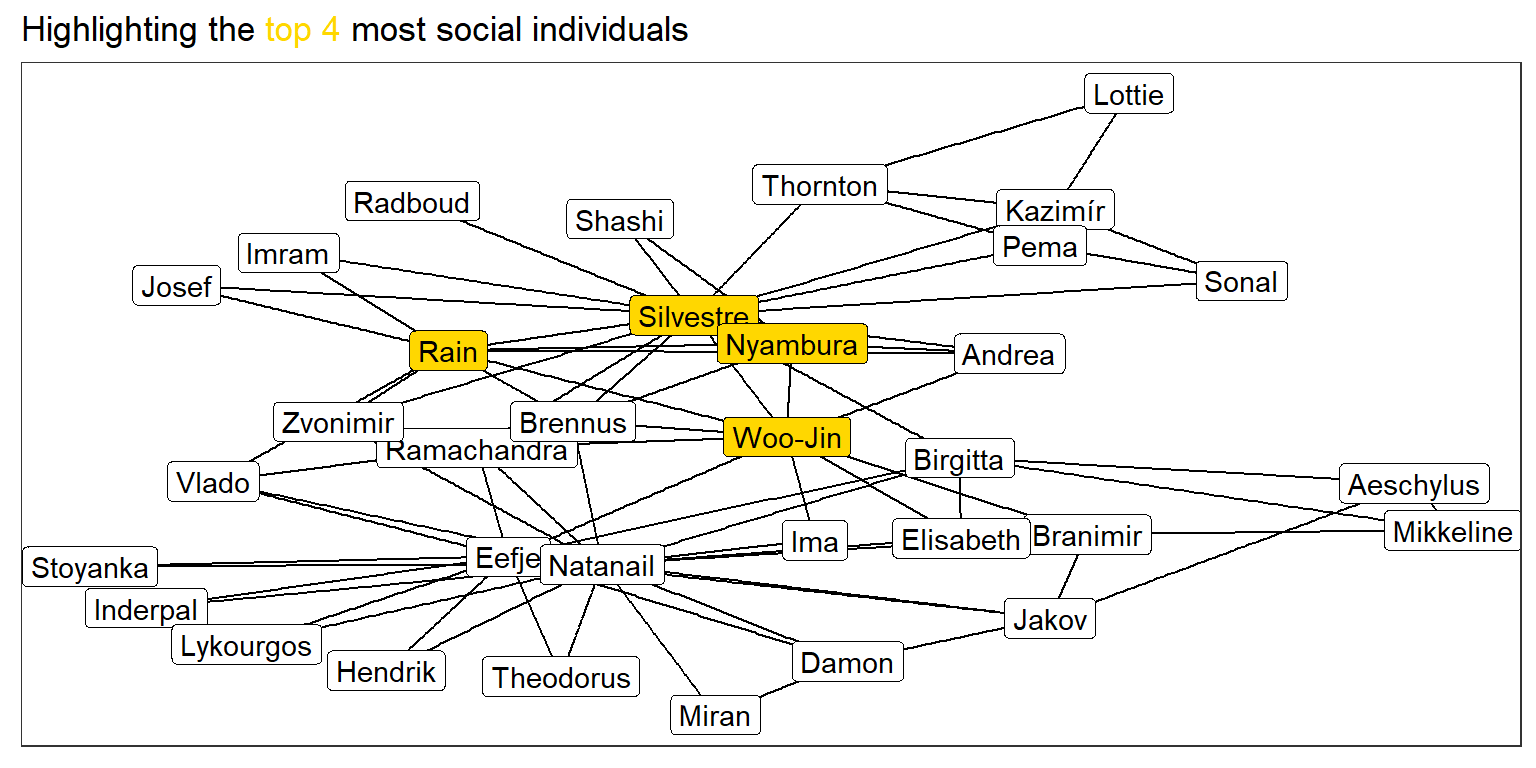
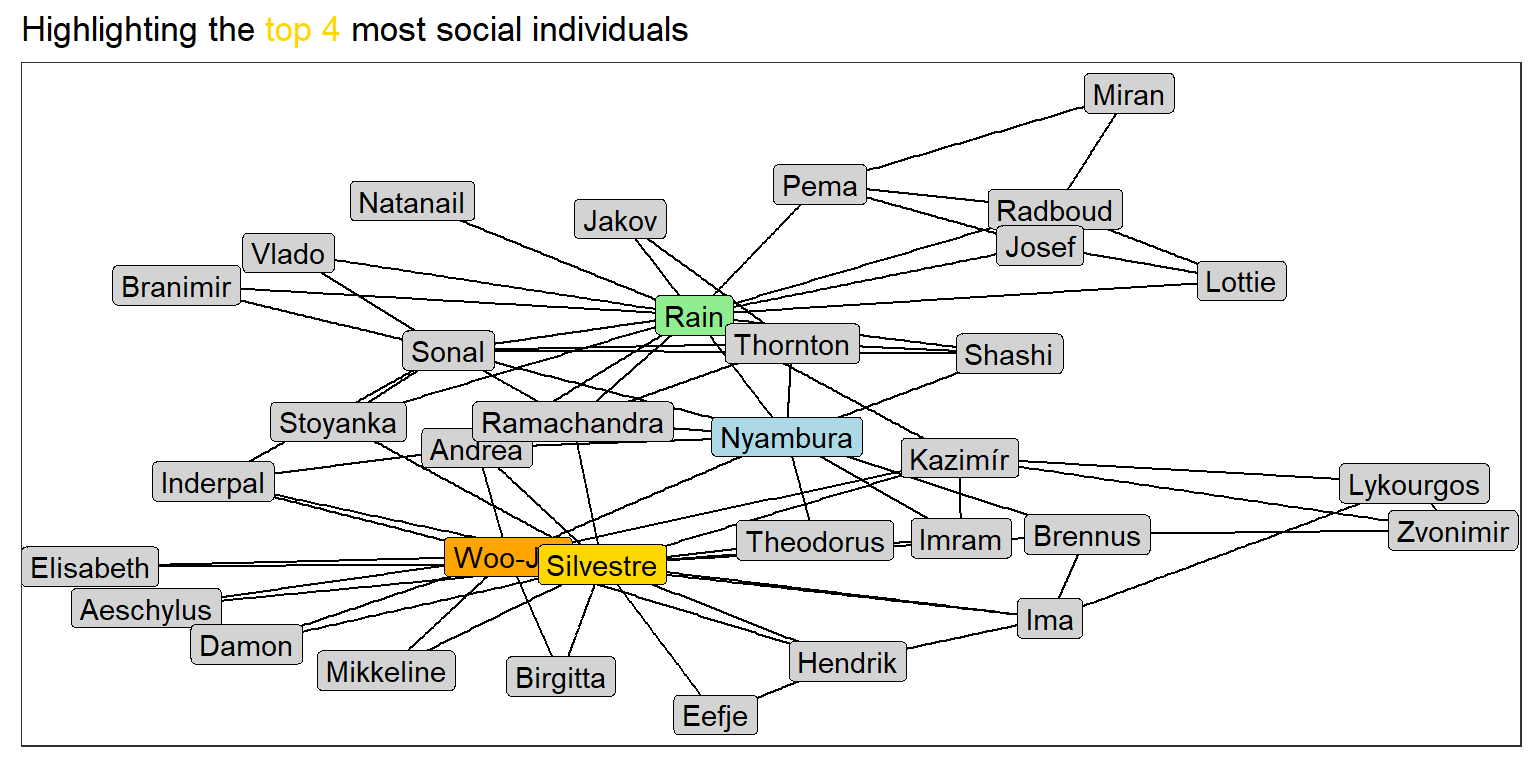
colored edges. Fixes #17

diff --git a/Report_2/README.html b/Report_2/README.html
@@ -154,14 +154,15 @@ pre > code.sourceCode > span > a:first-child::before { text-decoration: underlin
 <span id="cb2-3"><a href="#cb2-3" aria-hidden="true" tabindex="-1"></a>df_nodes_firstname <span class="ot">&lt;-</span> df_nodes <span class="sc">%&gt;%</span> </span>
 <span id="cb2-4"><a href="#cb2-4" aria-hidden="true" tabindex="-1"></a>    <span class="fu">mutate</span>(<span class="at">firstname =</span> <span class="fu">word</span>(name, <span class="dv">1</span>))</span>
 <span id="cb2-5"><a href="#cb2-5" aria-hidden="true" tabindex="-1"></a></span>
-<span id="cb2-6"><a href="#cb2-6" aria-hidden="true" tabindex="-1"></a>twiddle_data_firstname <span class="ot">&lt;-</span> <span class="fu">tbl_graph</span>(</span>
-<span id="cb2-7"><a href="#cb2-7" aria-hidden="true" tabindex="-1"></a>    <span class="at">nodes =</span> df_nodes_firstname,</span>
-<span id="cb2-8"><a href="#cb2-8" aria-hidden="true" tabindex="-1"></a>    <span class="at">edges =</span> df_edges</span>
-<span id="cb2-9"><a href="#cb2-9" aria-hidden="true" tabindex="-1"></a>  )</span>
-<span id="cb2-10"><a href="#cb2-10" aria-hidden="true" tabindex="-1"></a></span>
-<span id="cb2-11"><a href="#cb2-11" aria-hidden="true" tabindex="-1"></a><span class="fu">ggraph</span>(twiddle_data_firstname, <span class="at">layout =</span> <span class="st">"igraph"</span>, <span class="at">algorithm =</span> <span class="st">"kk"</span>) <span class="sc">+</span></span>
-<span id="cb2-12"><a href="#cb2-12" aria-hidden="true" tabindex="-1"></a>  <span class="fu">geom_edge_link</span>() <span class="sc">+</span></span>
-<span id="cb2-13"><a href="#cb2-13" aria-hidden="true" tabindex="-1"></a>  <span class="fu">geom_node_label</span>(<span class="at">mapping =</span> <span class="fu">aes</span>(<span class="at">label =</span> firstname))</span></code><button title="Copy to Clipboard" class="code-copy-button"><i class="bi"></i></button></pre></div>
+<span id="cb2-6"><a href="#cb2-6" aria-hidden="true" tabindex="-1"></a></span>
+<span id="cb2-7"><a href="#cb2-7" aria-hidden="true" tabindex="-1"></a>twiddle_data_firstname <span class="ot">&lt;-</span> <span class="fu">tbl_graph</span>(</span>
+<span id="cb2-8"><a href="#cb2-8" aria-hidden="true" tabindex="-1"></a>    <span class="at">nodes =</span> df_nodes_firstname,</span>
+<span id="cb2-9"><a href="#cb2-9" aria-hidden="true" tabindex="-1"></a>    <span class="at">edges =</span> df_edges</span>
+<span id="cb2-10"><a href="#cb2-10" aria-hidden="true" tabindex="-1"></a>  )</span>
+<span id="cb2-11"><a href="#cb2-11" aria-hidden="true" tabindex="-1"></a></span>
+<span id="cb2-12"><a href="#cb2-12" aria-hidden="true" tabindex="-1"></a><span class="fu">ggraph</span>(twiddle_data_firstname, <span class="at">layout =</span> <span class="st">"igraph"</span>, <span class="at">algorithm =</span> <span class="st">"kk"</span>) <span class="sc">+</span></span>
+<span id="cb2-13"><a href="#cb2-13" aria-hidden="true" tabindex="-1"></a>  <span class="fu">geom_edge_link</span>() <span class="sc">+</span></span>
+<span id="cb2-14"><a href="#cb2-14" aria-hidden="true" tabindex="-1"></a>  <span class="fu">geom_node_label</span>(<span class="at">mapping =</span> <span class="fu">aes</span>(<span class="at">label =</span> firstname))</span></code><button title="Copy to Clipboard" class="code-copy-button"><i class="bi"></i></button></pre></div>
 <div class="cell-output-display">
 <p><img src="README_files/figure-html/unnamed-chunk-2-1.png" class="img-fluid" width="768"></p>
 </div>
@@ -195,39 +196,53 @@ pre > code.sourceCode > span > a:first-child::before { text-decoration: underlin
 <span id="cb5-18"><a href="#cb5-18" aria-hidden="true" tabindex="-1"></a>    <span class="at">rn =</span> <span class="fu">row_number</span>(),</span>
 <span id="cb5-19"><a href="#cb5-19" aria-hidden="true" tabindex="-1"></a>    <span class="at">top_4 =</span> <span class="fu">ifelse</span>(<span class="fu">between</span>(rn,<span class="dv">1</span>,<span class="dv">4</span>), <span class="cn">TRUE</span>, <span class="cn">FALSE</span>)</span>
 <span id="cb5-20"><a href="#cb5-20" aria-hidden="true" tabindex="-1"></a>  ) <span class="sc">%&gt;%</span> </span>
-<span id="cb5-21"><a href="#cb5-21" aria-hidden="true" tabindex="-1"></a>  <span class="fu">ungroup</span>()</span>
-<span id="cb5-22"><a href="#cb5-22" aria-hidden="true" tabindex="-1"></a></span>
-<span id="cb5-23"><a href="#cb5-23" aria-hidden="true" tabindex="-1"></a><span class="co"># to display in text below the 4 most social individuals</span></span>
-<span id="cb5-24"><a href="#cb5-24" aria-hidden="true" tabindex="-1"></a>top_4_string <span class="ot">&lt;-</span> df_nodes_firstname_counts <span class="sc">%&gt;%</span> </span>
-<span id="cb5-25"><a href="#cb5-25" aria-hidden="true" tabindex="-1"></a>  <span class="fu">filter</span>(top_4) <span class="sc">%&gt;%</span> </span>
-<span id="cb5-26"><a href="#cb5-26" aria-hidden="true" tabindex="-1"></a>  <span class="fu">mutate</span>(<span class="at">name_num =</span> <span class="fu">paste0</span>(name, <span class="st">" ("</span>, count_sum, <span class="st">"), "</span>)) <span class="sc">%&gt;%</span> </span>
-<span id="cb5-27"><a href="#cb5-27" aria-hidden="true" tabindex="-1"></a>  <span class="fu">group_by</span>(<span class="dv">99</span>) <span class="sc">%&gt;%</span> </span>
-<span id="cb5-28"><a href="#cb5-28" aria-hidden="true" tabindex="-1"></a>  <span class="fu">summarize</span>(<span class="at">string =</span> <span class="fu">paste0</span>(name_num, <span class="at">collapse =</span> <span class="st">""</span>)) <span class="sc">%&gt;%</span> </span>
-<span id="cb5-29"><a href="#cb5-29" aria-hidden="true" tabindex="-1"></a>  <span class="fu">pull</span>(string)</span>
+<span id="cb5-21"><a href="#cb5-21" aria-hidden="true" tabindex="-1"></a>  <span class="fu">arrange</span>(id) <span class="sc">%&gt;%</span> </span>
+<span id="cb5-22"><a href="#cb5-22" aria-hidden="true" tabindex="-1"></a>  <span class="fu">ungroup</span>() <span class="sc">%&gt;%</span> </span>
+<span id="cb5-23"><a href="#cb5-23" aria-hidden="true" tabindex="-1"></a>  <span class="fu">mutate</span>(<span class="at">fill_color =</span> <span class="fu">case_when</span>(</span>
+<span id="cb5-24"><a href="#cb5-24" aria-hidden="true" tabindex="-1"></a>    rn <span class="sc">==</span> <span class="dv">1</span> <span class="sc">~</span> <span class="st">"gold"</span>,</span>
+<span id="cb5-25"><a href="#cb5-25" aria-hidden="true" tabindex="-1"></a>    rn <span class="sc">==</span> <span class="dv">2</span> <span class="sc">~</span> <span class="st">"lightgreen"</span>,</span>
+<span id="cb5-26"><a href="#cb5-26" aria-hidden="true" tabindex="-1"></a>    rn <span class="sc">==</span> <span class="dv">3</span> <span class="sc">~</span> <span class="st">"orange"</span>,</span>
+<span id="cb5-27"><a href="#cb5-27" aria-hidden="true" tabindex="-1"></a>    rn <span class="sc">==</span> <span class="dv">4</span> <span class="sc">~</span> <span class="st">"lightblue"</span>,</span>
+<span id="cb5-28"><a href="#cb5-28" aria-hidden="true" tabindex="-1"></a>    <span class="cn">TRUE</span> <span class="sc">~</span><span class="st">"lightgrey"</span></span>
+<span id="cb5-29"><a href="#cb5-29" aria-hidden="true" tabindex="-1"></a>  ))</span>
 <span id="cb5-30"><a href="#cb5-30" aria-hidden="true" tabindex="-1"></a></span>
-<span id="cb5-31"><a href="#cb5-31" aria-hidden="true" tabindex="-1"></a>twiddle_data_firstname_counts <span class="ot">&lt;-</span> <span class="fu">tbl_graph</span>(</span>
-<span id="cb5-32"><a href="#cb5-32" aria-hidden="true" tabindex="-1"></a>    <span class="at">nodes =</span> df_nodes_firstname_counts,</span>
-<span id="cb5-33"><a href="#cb5-33" aria-hidden="true" tabindex="-1"></a>    <span class="at">edges =</span> df_edges</span>
-<span id="cb5-34"><a href="#cb5-34" aria-hidden="true" tabindex="-1"></a>  )</span>
-<span id="cb5-35"><a href="#cb5-35" aria-hidden="true" tabindex="-1"></a></span>
-<span id="cb5-36"><a href="#cb5-36" aria-hidden="true" tabindex="-1"></a><span class="fu">ggraph</span>(twiddle_data_firstname_counts, <span class="at">layout =</span> <span class="st">"igraph"</span>, <span class="at">algorithm =</span> <span class="st">"kk"</span>) <span class="sc">+</span></span>
-<span id="cb5-37"><a href="#cb5-37" aria-hidden="true" tabindex="-1"></a>  <span class="fu">geom_edge_link</span>() <span class="sc">+</span></span>
-<span id="cb5-38"><a href="#cb5-38" aria-hidden="true" tabindex="-1"></a>  <span class="fu">geom_node_label</span>(<span class="at">mapping =</span> <span class="fu">aes</span>(<span class="at">label =</span> firstname, <span class="at">fill =</span> top_4)) <span class="sc">+</span></span>
-<span id="cb5-39"><a href="#cb5-39" aria-hidden="true" tabindex="-1"></a>  <span class="fu">labs</span>(</span>
-<span id="cb5-40"><a href="#cb5-40" aria-hidden="true" tabindex="-1"></a>      <span class="at">title =</span> <span class="st">"Highlighting the &lt;span style='color:gold'&gt;top 4&lt;/span&gt; most social individuals"</span></span>
-<span id="cb5-41"><a href="#cb5-41" aria-hidden="true" tabindex="-1"></a>    ) <span class="sc">+</span></span>
-<span id="cb5-42"><a href="#cb5-42" aria-hidden="true" tabindex="-1"></a>  <span class="fu">scale_fill_manual</span>(</span>
-<span id="cb5-43"><a href="#cb5-43" aria-hidden="true" tabindex="-1"></a>    <span class="at">values =</span> <span class="fu">c</span>(<span class="st">"TRUE"</span> <span class="ot">=</span> <span class="st">"gold"</span>, <span class="st">"FALSE"</span> <span class="ot">=</span> <span class="st">"white"</span>)</span>
-<span id="cb5-44"><a href="#cb5-44" aria-hidden="true" tabindex="-1"></a>  ) <span class="sc">+</span></span>
-<span id="cb5-45"><a href="#cb5-45" aria-hidden="true" tabindex="-1"></a>  <span class="fu">theme</span>(</span>
-<span id="cb5-46"><a href="#cb5-46" aria-hidden="true" tabindex="-1"></a>    <span class="at">plot.title =</span> <span class="fu">element_markdown</span>(),</span>
-<span id="cb5-47"><a href="#cb5-47" aria-hidden="true" tabindex="-1"></a>    <span class="at">legend.position =</span> <span class="st">"none"</span></span>
-<span id="cb5-48"><a href="#cb5-48" aria-hidden="true" tabindex="-1"></a>  )</span></code><button title="Copy to Clipboard" class="code-copy-button"><i class="bi"></i></button></pre></div>
+<span id="cb5-31"><a href="#cb5-31" aria-hidden="true" tabindex="-1"></a>df_edges_with_names <span class="ot">&lt;-</span> df_edges <span class="sc">%&gt;%</span> </span>
+<span id="cb5-32"><a href="#cb5-32" aria-hidden="true" tabindex="-1"></a>  <span class="fu">left_join</span>(df_nodes_firstname_counts, <span class="fu">join_by</span>(from <span class="sc">==</span> id)) <span class="sc">%&gt;%</span> </span>
+<span id="cb5-33"><a href="#cb5-33" aria-hidden="true" tabindex="-1"></a>  <span class="fu">select</span>(from, to, fill_color) <span class="sc">%&gt;%</span> </span>
+<span id="cb5-34"><a href="#cb5-34" aria-hidden="true" tabindex="-1"></a>  <span class="fu">rename</span>(<span class="at">from_fill_color =</span> fill_color) <span class="sc">%&gt;%</span> </span>
+<span id="cb5-35"><a href="#cb5-35" aria-hidden="true" tabindex="-1"></a>  <span class="fu">left_join</span>(df_nodes_firstname_counts, <span class="fu">join_by</span>(to <span class="sc">==</span> id)) <span class="sc">%&gt;%</span> </span>
+<span id="cb5-36"><a href="#cb5-36" aria-hidden="true" tabindex="-1"></a>  <span class="fu">select</span>(from, to, from_fill_color, fill_color) <span class="sc">%&gt;%</span> </span>
+<span id="cb5-37"><a href="#cb5-37" aria-hidden="true" tabindex="-1"></a>    <span class="fu">rename</span>(<span class="at">to_fill_color =</span> fill_color)</span>
+<span id="cb5-38"><a href="#cb5-38" aria-hidden="true" tabindex="-1"></a><span class="co"># to display in text below the 4 most social individuals</span></span>
+<span id="cb5-39"><a href="#cb5-39" aria-hidden="true" tabindex="-1"></a>top_4_string <span class="ot">&lt;-</span> df_nodes_firstname_counts <span class="sc">%&gt;%</span> </span>
+<span id="cb5-40"><a href="#cb5-40" aria-hidden="true" tabindex="-1"></a>  <span class="fu">filter</span>(top_4) <span class="sc">%&gt;%</span> </span>
+<span id="cb5-41"><a href="#cb5-41" aria-hidden="true" tabindex="-1"></a>  <span class="fu">mutate</span>(<span class="at">name_num =</span> <span class="fu">paste0</span>(name, <span class="st">" ("</span>, count_sum, <span class="st">"), "</span>)) <span class="sc">%&gt;%</span> </span>
+<span id="cb5-42"><a href="#cb5-42" aria-hidden="true" tabindex="-1"></a>  <span class="fu">group_by</span>(<span class="dv">99</span>) <span class="sc">%&gt;%</span> </span>
+<span id="cb5-43"><a href="#cb5-43" aria-hidden="true" tabindex="-1"></a>  <span class="fu">summarize</span>(<span class="at">string =</span> <span class="fu">paste0</span>(name_num, <span class="at">collapse =</span> <span class="st">""</span>)) <span class="sc">%&gt;%</span> </span>
+<span id="cb5-44"><a href="#cb5-44" aria-hidden="true" tabindex="-1"></a>  <span class="fu">pull</span>(string)</span>
+<span id="cb5-45"><a href="#cb5-45" aria-hidden="true" tabindex="-1"></a></span>
+<span id="cb5-46"><a href="#cb5-46" aria-hidden="true" tabindex="-1"></a></span>
+<span id="cb5-47"><a href="#cb5-47" aria-hidden="true" tabindex="-1"></a>twiddle_data_firstname_counts <span class="ot">&lt;-</span> <span class="fu">tbl_graph</span>(</span>
+<span id="cb5-48"><a href="#cb5-48" aria-hidden="true" tabindex="-1"></a>    <span class="at">nodes =</span> df_nodes_firstname_counts,</span>
+<span id="cb5-49"><a href="#cb5-49" aria-hidden="true" tabindex="-1"></a>    <span class="at">edges =</span> df_edges_with_names</span>
+<span id="cb5-50"><a href="#cb5-50" aria-hidden="true" tabindex="-1"></a>  )</span>
+<span id="cb5-51"><a href="#cb5-51" aria-hidden="true" tabindex="-1"></a></span>
+<span id="cb5-52"><a href="#cb5-52" aria-hidden="true" tabindex="-1"></a><span class="fu">ggraph</span>(twiddle_data_firstname_counts, <span class="at">layout =</span> <span class="st">"igraph"</span>, <span class="at">algorithm =</span> <span class="st">"kk"</span>) <span class="sc">+</span></span>
+<span id="cb5-53"><a href="#cb5-53" aria-hidden="true" tabindex="-1"></a>  <span class="fu">geom_edge_link</span>() <span class="sc">+</span></span>
+<span id="cb5-54"><a href="#cb5-54" aria-hidden="true" tabindex="-1"></a>  <span class="fu">geom_node_label</span>(<span class="at">mapping =</span> <span class="fu">aes</span>(<span class="at">label =</span> firstname, <span class="at">fill =</span> fill_color)) <span class="sc">+</span></span>
+<span id="cb5-55"><a href="#cb5-55" aria-hidden="true" tabindex="-1"></a>  <span class="fu">labs</span>(</span>
+<span id="cb5-56"><a href="#cb5-56" aria-hidden="true" tabindex="-1"></a>      <span class="at">title =</span> <span class="st">"Highlighting the &lt;span style='color:gold'&gt;top 4&lt;/span&gt; most social individuals"</span></span>
+<span id="cb5-57"><a href="#cb5-57" aria-hidden="true" tabindex="-1"></a>    ) <span class="sc">+</span></span>
+<span id="cb5-58"><a href="#cb5-58" aria-hidden="true" tabindex="-1"></a>  <span class="fu">scale_fill_identity</span>() <span class="sc">+</span></span>
+<span id="cb5-59"><a href="#cb5-59" aria-hidden="true" tabindex="-1"></a>  <span class="fu">theme</span>(</span>
+<span id="cb5-60"><a href="#cb5-60" aria-hidden="true" tabindex="-1"></a>    <span class="at">plot.title =</span> <span class="fu">element_markdown</span>(),</span>
+<span id="cb5-61"><a href="#cb5-61" aria-hidden="true" tabindex="-1"></a>    <span class="at">legend.position =</span> <span class="st">"none"</span></span>
+<span id="cb5-62"><a href="#cb5-62" aria-hidden="true" tabindex="-1"></a>  )</span></code><button title="Copy to Clipboard" class="code-copy-button"><i class="bi"></i></button></pre></div>
 <div class="cell-output-display">
 <p><img src="README_files/figure-html/unnamed-chunk-3-1.png" class="img-fluid" width="768"></p>
 </div>
 </div>
-<p>The 4 most social People are Silvestre Molina (17), Rain Lemmi (16), Woo-Jin Tosetti (12), Nyambura Fischer (10), with the number of interactions in brackets.</p>
+<p>The 4 most social People are Rain Lemmi (16), Nyambura Fischer (10), Woo-Jin Tosetti (12), Silvestre Molina (17), with the number of interactions in brackets.</p>
 </section>
 <section id="task-4-only-showing-names-of-4-most-interactive-people" class="level2">
 <h2 class="anchored" data-anchor-id="task-4-only-showing-names-of-4-most-interactive-people">Task 4: Only showing names of 4 most interactive people</h2>
@@ -243,11 +258,11 @@ pre > code.sourceCode > span > a:first-child::before { text-decoration: underlin
 <span id="cb6-9"><a href="#cb6-9" aria-hidden="true" tabindex="-1"></a>    <span class="at">nudge_x =</span> <span class="fl">0.28</span>,</span>
 <span id="cb6-10"><a href="#cb6-10" aria-hidden="true" tabindex="-1"></a></span>
 <span id="cb6-11"><a href="#cb6-11" aria-hidden="true" tabindex="-1"></a>  ) <span class="sc">+</span></span>
-<span id="cb6-12"><a href="#cb6-12" aria-hidden="true" tabindex="-1"></a>  <span class="fu">geom_node_point</span>(<span class="at">mapping =</span> <span class="fu">aes</span>(<span class="at">fill =</span> top_4),</span>
+<span id="cb6-12"><a href="#cb6-12" aria-hidden="true" tabindex="-1"></a>  <span class="fu">geom_node_point</span>(<span class="at">mapping =</span> <span class="fu">aes</span>(<span class="at">fill =</span> fill_color),</span>
 <span id="cb6-13"><a href="#cb6-13" aria-hidden="true" tabindex="-1"></a>                  <span class="at">shape =</span> <span class="dv">21</span>,</span>
 <span id="cb6-14"><a href="#cb6-14" aria-hidden="true" tabindex="-1"></a>                  <span class="at">size =</span> <span class="dv">5</span>) <span class="sc">+</span> </span>
 <span id="cb6-15"><a href="#cb6-15" aria-hidden="true" tabindex="-1"></a>  <span class="fu">labs</span>(<span class="at">title =</span> <span class="st">"Highlighting the &lt;span style='color:gold'&gt;top 4&lt;/span&gt; most social individuals"</span>) <span class="sc">+</span>  </span>
-<span id="cb6-16"><a href="#cb6-16" aria-hidden="true" tabindex="-1"></a>  <span class="fu">scale_fill_manual</span>(<span class="at">values =</span> <span class="fu">c</span>(<span class="st">"TRUE"</span> <span class="ot">=</span> <span class="st">"gold"</span>, <span class="st">"FALSE"</span> <span class="ot">=</span> <span class="st">"white"</span>)) <span class="sc">+</span></span>
+<span id="cb6-16"><a href="#cb6-16" aria-hidden="true" tabindex="-1"></a>  <span class="fu">scale_fill_identity</span>() <span class="sc">+</span></span>
 <span id="cb6-17"><a href="#cb6-17" aria-hidden="true" tabindex="-1"></a>  <span class="fu">theme</span>(<span class="at">plot.title =</span> <span class="fu">element_markdown</span>(),</span>
 <span id="cb6-18"><a href="#cb6-18" aria-hidden="true" tabindex="-1"></a>        <span class="at">legend.position =</span> <span class="st">"none"</span>)</span></code><button title="Copy to Clipboard" class="code-copy-button"><i class="bi"></i></button></pre></div>
 <div class="cell-output cell-output-stderr">
@@ -256,6 +271,49 @@ Ignoring unknown aesthetics: fill</code></pre>
 </div>
 <div class="cell-output-display">
 <p><img src="README_files/figure-html/unnamed-chunk-4-1.png" class="img-fluid" width="768"></p>
+</div>
+</div>
+</section>
+<section id="task-5-coloring-the-graph-a-little-more" class="level2">
+<h2 class="anchored" data-anchor-id="task-5-coloring-the-graph-a-little-more">Task 5: Coloring the graph a little more</h2>
+<p>We want each of the top 4 social people to have their own color. Next, we color the connections accordting to their color.</p>
+<div class="cell">
+<div class="sourceCode cell-code" id="cb8"><pre class="sourceCode r code-with-copy"><code class="sourceCode r"><span id="cb8-1"><a href="#cb8-1" aria-hidden="true" tabindex="-1"></a>top_4_list <span class="ot">&lt;-</span> df_nodes_firstname_counts <span class="sc">%&gt;%</span> </span>
+<span id="cb8-2"><a href="#cb8-2" aria-hidden="true" tabindex="-1"></a>  <span class="fu">filter</span>(top_4) <span class="sc">%&gt;%</span> </span>
+<span id="cb8-3"><a href="#cb8-3" aria-hidden="true" tabindex="-1"></a>  <span class="fu">select</span>(id, rn, fill_color)</span>
+<span id="cb8-4"><a href="#cb8-4" aria-hidden="true" tabindex="-1"></a></span>
+<span id="cb8-5"><a href="#cb8-5" aria-hidden="true" tabindex="-1"></a>twiddle_data_colored <span class="ot">&lt;-</span> twiddle_data_firstname_counts <span class="sc">%&gt;%</span> </span>
+<span id="cb8-6"><a href="#cb8-6" aria-hidden="true" tabindex="-1"></a>  <span class="fu">activate</span>(edges) <span class="sc">%&gt;%</span> </span>
+<span id="cb8-7"><a href="#cb8-7" aria-hidden="true" tabindex="-1"></a>  <span class="fu">mutate</span>(</span>
+<span id="cb8-8"><a href="#cb8-8" aria-hidden="true" tabindex="-1"></a>    <span class="at">edge_color =</span> <span class="fu">case_when</span>(</span>
+<span id="cb8-9"><a href="#cb8-9" aria-hidden="true" tabindex="-1"></a>      from <span class="sc">%in%</span> top_4_list<span class="sc">$</span>id <span class="sc">&amp;</span> to <span class="sc">%in%</span> top_4_list<span class="sc">$</span>id <span class="sc">~</span> from_fill_color,</span>
+<span id="cb8-10"><a href="#cb8-10" aria-hidden="true" tabindex="-1"></a>      from <span class="sc">%in%</span> top_4_list<span class="sc">$</span>id <span class="sc">~</span> from_fill_color,</span>
+<span id="cb8-11"><a href="#cb8-11" aria-hidden="true" tabindex="-1"></a>      to <span class="sc">%in%</span> top_4_list<span class="sc">$</span>id <span class="sc">~</span> to_fill_color,</span>
+<span id="cb8-12"><a href="#cb8-12" aria-hidden="true" tabindex="-1"></a>      <span class="cn">TRUE</span> <span class="sc">~</span> <span class="st">"lightgrey"</span></span>
+<span id="cb8-13"><a href="#cb8-13" aria-hidden="true" tabindex="-1"></a>    )</span>
+<span id="cb8-14"><a href="#cb8-14" aria-hidden="true" tabindex="-1"></a>  )</span>
+<span id="cb8-15"><a href="#cb8-15" aria-hidden="true" tabindex="-1"></a></span>
+<span id="cb8-16"><a href="#cb8-16" aria-hidden="true" tabindex="-1"></a></span>
+<span id="cb8-17"><a href="#cb8-17" aria-hidden="true" tabindex="-1"></a><span class="fu">ggraph</span>(twiddle_data_colored,</span>
+<span id="cb8-18"><a href="#cb8-18" aria-hidden="true" tabindex="-1"></a>       <span class="at">layout =</span> <span class="st">"igraph"</span>,</span>
+<span id="cb8-19"><a href="#cb8-19" aria-hidden="true" tabindex="-1"></a>       <span class="at">algorithm =</span> <span class="st">"kk"</span>) <span class="sc">+</span></span>
+<span id="cb8-20"><a href="#cb8-20" aria-hidden="true" tabindex="-1"></a>  <span class="fu">geom_edge_link</span>(<span class="at">mapping =</span> <span class="fu">aes</span>(<span class="at">color =</span> edge_color)) <span class="sc">+</span></span>
+<span id="cb8-21"><a href="#cb8-21" aria-hidden="true" tabindex="-1"></a>  <span class="fu">geom_node_text</span>(</span>
+<span id="cb8-22"><a href="#cb8-22" aria-hidden="true" tabindex="-1"></a>    <span class="at">mapping =</span> <span class="fu">aes</span>(<span class="at">label =</span> <span class="fu">ifelse</span>(top_4, firstname, <span class="st">""</span>)),</span>
+<span id="cb8-23"><a href="#cb8-23" aria-hidden="true" tabindex="-1"></a>    <span class="at">nudge_y =</span> <span class="fl">0.28</span>,</span>
+<span id="cb8-24"><a href="#cb8-24" aria-hidden="true" tabindex="-1"></a>    <span class="at">nudge_x =</span> <span class="fl">0.28</span>,</span>
+<span id="cb8-25"><a href="#cb8-25" aria-hidden="true" tabindex="-1"></a></span>
+<span id="cb8-26"><a href="#cb8-26" aria-hidden="true" tabindex="-1"></a>  ) <span class="sc">+</span></span>
+<span id="cb8-27"><a href="#cb8-27" aria-hidden="true" tabindex="-1"></a>  <span class="fu">geom_node_point</span>(<span class="at">mapping =</span> <span class="fu">aes</span>(<span class="at">fill =</span> fill_color),</span>
+<span id="cb8-28"><a href="#cb8-28" aria-hidden="true" tabindex="-1"></a>                  <span class="at">shape =</span> <span class="dv">21</span>,</span>
+<span id="cb8-29"><a href="#cb8-29" aria-hidden="true" tabindex="-1"></a>                  <span class="at">size =</span> <span class="dv">5</span>) <span class="sc">+</span> </span>
+<span id="cb8-30"><a href="#cb8-30" aria-hidden="true" tabindex="-1"></a>  <span class="fu">labs</span>(<span class="at">title =</span> <span class="st">"Highlighting the &lt;span style='color:gold'&gt;top 4&lt;/span&gt; most social individuals"</span>) <span class="sc">+</span>  </span>
+<span id="cb8-31"><a href="#cb8-31" aria-hidden="true" tabindex="-1"></a>  <span class="fu">scale_fill_identity</span>() <span class="sc">+</span></span>
+<span id="cb8-32"><a href="#cb8-32" aria-hidden="true" tabindex="-1"></a>  <span class="fu">scale_edge_color_identity</span>() <span class="sc">+</span></span>
+<span id="cb8-33"><a href="#cb8-33" aria-hidden="true" tabindex="-1"></a>  <span class="fu">theme</span>(<span class="at">plot.title =</span> <span class="fu">element_markdown</span>(),</span>
+<span id="cb8-34"><a href="#cb8-34" aria-hidden="true" tabindex="-1"></a>        ) <span class="co">#legend.position = "none"</span></span></code><button title="Copy to Clipboard" class="code-copy-button"><i class="bi"></i></button></pre></div>
+<div class="cell-output-display">
+<p><img src="README_files/figure-html/unnamed-chunk-5-1.png" class="img-fluid" width="768"></p>
 </div>
 </div>
 </section>
